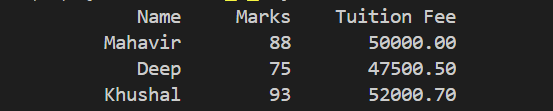
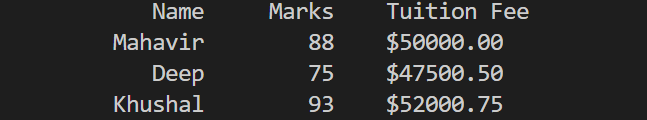
Add files via upload

diff --git a/Practical_7_5.cpp b/Practical_7_5.cpp
@@ -1,26 +1,31 @@
 #include <iostream>
 #include <iomanip>
 #include <string>
+
 using namespace std;
+
+ostream &currency(ostream &out)
+{
+    out << "$";
+    return out;
+}
 
 int main()
 {
-    // Sample data (can be replaced with file input if needed)
+
     string names[] = {"Mahavir", "Deep", "Khushal"};
     int marks[] = {88, 75, 93};
-    float fees[] = {50000.0, 47500.5, 52000.70};
+    float fees[] = {50000.0, 47500.5, 52000.7005};
 
-    // Display header
     cout << setw(15) << "Name"
          << setw(10) << "Marks"
          << setw(15) << "Tuition Fee" << endl;
 
-    // Display data
     for (int i = 0; i < 3; i++)
     {
         cout << setw(15) << names[i]
              << setw(10) << marks[i]
-             << setw(15) << fixed << setprecision(2) << fees[i] << endl;
+             << setw(5) << currency << fixed << setprecision(2) << fees[i] << endl;
     }
 
     return 0;
